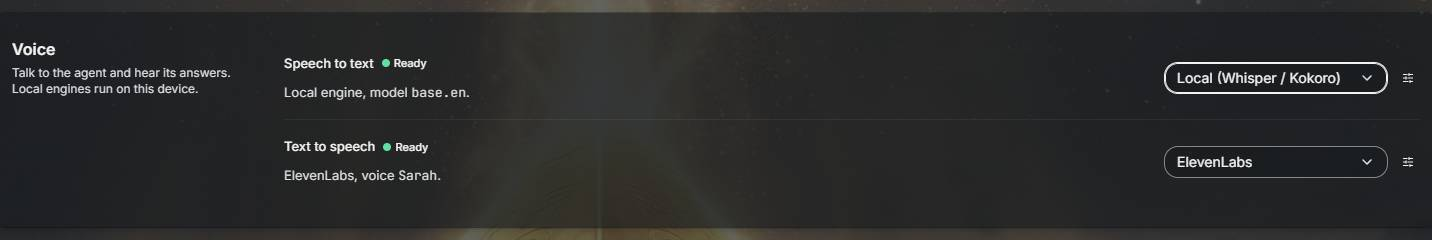
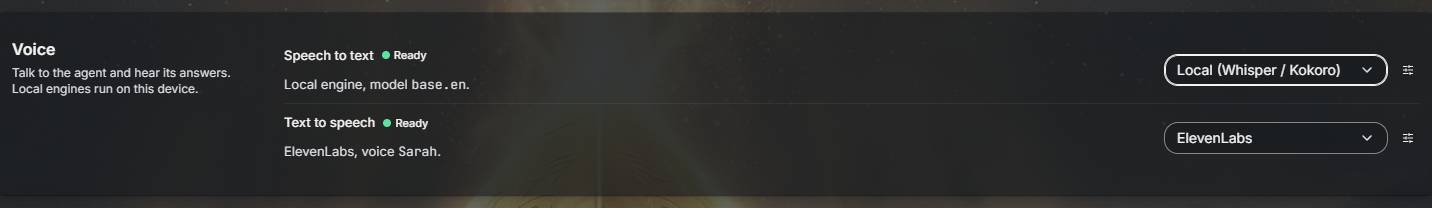
fix(chat,webview-e2e-harness): tidy Search & Voice spacing and actions
Coordinator review of PR 1416:

- ElevenLabs: two outline actions directly below the list and a
  Clear key action at the end. Clear key opens the TTS drawer tab
  with the existing clear confirmation (one shot per request).
- Web search cards: the status line follows the header.
- Divider and row gap between the provider note and Max results.
- Voice rows use the compact setting-row density, so the section
  padding matches the other sections.

CI: the Providers Main Agent popover smoke test checked rows that
the popover had scrolled out of view, because the shorter Main agent
list moves the trigger. Scroll each row into view before the
stacking check. The stacking contract does not change.

Refresh the after shots.

diff --git a/libs/frontend/chat/src/lib/settings/ptah-ai/voice-config.component.ts b/libs/frontend/chat/src/lib/settings/ptah-ai/voice-config.component.ts
@@ -108,7 +108,7 @@ const SAVE_PROVIDER_FAILED: Record<VoiceDirection, string> = {
         } @else if (rows().length) {
           <div data-testid="voice-engines-matrix">
             @for (row of rows(); track row.direction) {
-              <ptah-setting-row #settingRow [label]="row.name"
+              <ptah-setting-row #settingRow [label]="row.name" density="compact"
                 [attr.data-testid]="'voice-engine-row-' + row.direction">
                 <div status class="voice-row-status">
                   <ptah-status [status]="row.status.label === 'Ready' ? 'completed' : 'warning'"
@@ -153,13 +153,14 @@ const SAVE_PROVIDER_FAILED: Record<VoiceDirection, string> = {
     </section>
     @if (config(); as cfg) {
       <ptah-voice-elevenlabs-summary [config]="cfg" [voices]="elevenLabsVoices()"
-        (details)="openDetails('tts')" />
+        (details)="openDetails('tts')" (clearKey)="requestClearKey()" />
     }
 
     <!-- Lazy: the drawer and the panels it hosts load the first time a Details button is used. -->
     @defer (when drawerDirection() !== null) {
       <ptah-voice-details-drawer [(direction)]="drawerDirection" [config]="config()"
-        (closed)="drawerDirection.set(null)" (changed)="reloadAll()" />
+        [confirmClearKey]="clearKeyRequested()"
+        (closed)="drawerDirection.set(null); clearKeyRequested.set(false)" (changed)="reloadAll()" />
     }
   `,
   styles: `
@@ -192,6 +193,7 @@ export class VoiceConfigComponent implements OnInit {
   readonly isLoading = signal(true);
   /** Direction whose drawer tab is open; `null` closes drawer D-VOICE. */
   readonly drawerDirection = signal<VoiceDirection | null>(null);
+  readonly clearKeyRequested = signal(false);
 
   /** The provider selects, one per row in row order (stt, tts). */
   private readonly providerSelects = viewChildren(PtahRichSelectComponent);
@@ -318,7 +320,14 @@ export class VoiceConfigComponent implements OnInit {
     return name ? { modelLabel: name, modelTitle: null } : { modelLabel: 'Custom voice', modelTitle: voiceId };
   }
 
+  /** Page "Clear key": open the TTS drawer tab with the ElevenLabs clear confirmation. */
+  requestClearKey(): void {
+    this.openDetails('tts');
+    this.clearKeyRequested.set(true);
+  }
+
   openDetails(direction: VoiceDirection): void {
+    this.clearKeyRequested.set(false);
     this.drawerDirection.set(direction);
   }
 

diff --git a/libs/frontend/chat/src/lib/settings/ptah-ai/voice-details-drawer.component.spec.ts b/libs/frontend/chat/src/lib/settings/ptah-ai/voice-details-drawer.component.spec.ts
@@ -34,6 +34,7 @@ class ElevenLabsStub {
   readonly direction = input.required<'stt' | 'tts'>();
   readonly config = input.required<unknown>();
   readonly keyOnly = input(false);
+  readonly startClearConfirm = input(false);
   readonly changed = output<void>();
 }
 
@@ -41,11 +42,12 @@ class ElevenLabsStub {
   standalone: true,
   imports: [VoiceDetailsDrawerComponent],
   template: `<ptah-voice-details-drawer [(direction)]="direction" [config]="config()"
-    (closed)="closedCount = closedCount + 1; direction.set(null)" (changed)="changedCount = changedCount + 1" />`,
+    [confirmClearKey]="clearKey()" (closed)="closedCount = closedCount + 1; direction.set(null)" (changed)="changedCount = changedCount + 1" />`,
 })
 class HostComponent {
   readonly direction = signal<VoiceDirection | null>('stt');
   readonly config = signal<VoiceProviderConfigDto | null>(null);
+  readonly clearKey = signal(false);
   closedCount = 0;
   changedCount = 0;
 }
@@ -127,6 +129,22 @@ describe('VoiceDetailsDrawerComponent', () => {
       expect(panel?.classList.contains('px-2')).toBe(true);
       expect(panel?.classList.contains('pt-4')).toBe(true);
     }
+  });
+
+  it('passes a page clear request only to the TTS ElevenLabs panel', () => {
+    host.config.set(config({ ttsProvider: 'elevenlabs' }));
+    host.clearKey.set(true);
+    host.direction.set('tts');
+    fixture.detectChanges();
+    expect(fixture.debugElement.query(By.directive(ElevenLabsStub)).componentInstance.startClearConfirm()).toBe(true);
+    // With Local as TTS engine the request reaches the key-only ElevenLabs setup panel.
+    host.config.set(config({ elevenlabs: { ...config().elevenlabs, apiKeyConfigured: false } }));
+    fixture.detectChanges();
+    expect(fixture.debugElement.query(By.directive(ElevenLabsStub)).componentInstance.startClearConfirm()).toBe(true);
+    host.config.set(config({ elevenlabs: { ...config().elevenlabs, apiKeyConfigured: false } }));
+    tab('Speech-to-text')?.click();
+    fixture.detectChanges();
+    expect(fixture.debugElement.query(By.directive(ElevenLabsStub)).componentInstance.startClearConfirm()).toBe(false);
   });
 
   it('renders the ElevenLabs panel for the direction that uses it', () => {

diff --git a/libs/frontend/chat/src/lib/settings/ptah-ai/voice-elevenlabs-summary.component.ts b/libs/frontend/chat/src/lib/settings/ptah-ai/voice-elevenlabs-summary.component.ts
@@ -21,17 +21,24 @@ import { SearchVoiceSummaryStore } from './search-voice-summary.store';
           <div ptahDescriptionItem term="API key" [value]="hasKey() ? 'Saved' : 'Not set'"></div>
           <div ptahDescriptionItem term="Voice" [value]="voiceLabel()" [mono]="unknownVoice()"></div>
         </ptah-description-list>
-        <div footer class="flex flex-wrap gap-ptah-controls">
-          <button type="button" ptahButton variant="secondary" data-testid="voice-elevenlabs-manage"
+        <div class="flex flex-wrap items-center gap-ptah-controls">
+          <button type="button" ptahButton variant="outline" data-testid="voice-elevenlabs-manage"
             (click)="details.emit()">{{ hasKey() ? 'Change key' : 'Add key' }}</button>
-          <button type="button" ptahButton variant="ghost" data-testid="voice-elevenlabs-details"
+          <button type="button" ptahButton variant="outline" data-testid="voice-elevenlabs-details"
             (click)="details.emit()">Voice details</button>
+          @if (hasKey()) {
+            <button type="button" ptahButton variant="ghost" tone="danger" class="summary-clear"
+              aria-label="Clear the ElevenLabs API key" data-testid="voice-elevenlabs-clear"
+              (click)="clearKey.emit()">Clear key</button>
+          }
         </div>
       </ptah-form-section>
     </section>
   `,
   styles: `
     :host { display: block; }
+    /* The destructive action sits at the end of the action row, as in the prototype. */
+    .summary-clear { margin-inline-start: auto; }
     :host-context([data-glass='on']) [data-glass-surface='content'] {
       padding: 0 1.25rem;
     }
@@ -41,6 +48,7 @@ export class VoiceElevenlabsSummaryComponent {
   readonly config = input.required<VoiceProviderConfigDto>();
   readonly voices = input<readonly VoiceInfoDto[] | null>(null);
   readonly details = output<void>();
+  readonly clearKey = output<void>();
   private readonly summary = inject(SearchVoiceSummaryStore, { optional: true });
   readonly hasKey = computed(() => this.config().elevenlabs.apiKeyConfigured);
   private readonly voiceName = computed(() => this.voices()?.find(voice => voice.id === this.config().elevenlabs.voiceId)?.label);

diff --git a/libs/frontend/chat/src/lib/settings/ptah-ai/web-search-provider-rows.component.ts b/libs/frontend/chat/src/lib/settings/ptah-ai/web-search-provider-rows.component.ts
@@ -56,7 +56,7 @@ export interface ProviderTestResult {
             </ptah-native-popover>
           </div>
           <div class="provider-body">
-            <span [attr.data-testid]="'settings-web-search-status-' + opt.value">
+            <span class="provider-test" [attr.data-testid]="'settings-web-search-status-' + opt.value">
               @if (testResults().find(r => r.provider === opt.value); as r) {
                 <ptah-status [status]="r.success ? 'online' : 'failed'" [label]="r.success ? 'Works' : TEST_FAILED" />
               } @else { <span class="sr-only">Not tested</span> }
@@ -123,7 +123,9 @@ export interface ProviderTestResult {
     .provider[data-readiness='missing'] { border-inline-start-color: var(--ptah-card-tone-warning); }
     .provider-header { display: flex; align-items: center; gap: var(--ptah-gap-controls); padding: var(--ptah-card-padding-sm); }
     .provider-mark { display: grid; place-items: center; flex-shrink: 0; width: 2.25rem; height: 2.25rem; border: 1px solid var(--ptah-border-color); border-radius: var(--ptah-radius-control); background: var(--ptah-card-bg); font-weight: 600; }
-    .provider-body { display: flex; flex-direction: column; gap: var(--ptah-gap-controls); padding: var(--ptah-card-padding-sm); flex: 1; }
+    /* The status line follows the header: no top padding, and the hidden test status takes no gap. */
+    .provider-body { display: flex; flex-direction: column; gap: var(--ptah-gap-controls); padding: 0 var(--ptah-card-padding-sm) var(--ptah-card-padding-sm); flex: 1; }
+    .provider-test { display: contents; }
     .provider-footer { display: flex; align-items: center; flex-wrap: nowrap; gap: var(--ptah-gap-inline); padding: var(--ptah-card-padding-sm); border-top: 1px solid var(--ptah-border-color); margin-top: auto; }
     .provider-footer [hidden] { display: none; }
     .clear-key { margin-inline-start: auto; }

diff --git a/libs/frontend/chat/src/lib/settings/ptah-ai/voice-details-drawer.component.ts b/libs/frontend/chat/src/lib/settings/ptah-ai/voice-details-drawer.component.ts
@@ -78,7 +78,8 @@ const TABS: readonly NativeTab[] = [
               <div class="ptah-motion-panel px-2 pt-4" animate.enter="ptah-motion-enter" animate.leave="ptah-motion-leave">
               @switch (ttsProvider()) {
                 @case ('elevenlabs') {
-                  <ptah-elevenlabs-panel direction="tts" [config]="cfg.elevenlabs" (changed)="changed.emit()" />
+                  <ptah-elevenlabs-panel direction="tts" [config]="cfg.elevenlabs" [startClearConfirm]="confirmClearKey()"
+                    (changed)="changed.emit()" />
                 }
                 @default {
                   <ptah-local-tts-panel [config]="cfg.local" (changed)="changed.emit()" />
@@ -100,7 +101,8 @@ const TABS: readonly NativeTab[] = [
           <p class="mb-3 text-xs text-base-content-muted">
             Save a key to use ElevenLabs for voice.
           </p>
-          <ptah-elevenlabs-panel [direction]="dir" [config]="cfg.elevenlabs" [keyOnly]="true" (changed)="changed.emit()" />
+          <ptah-elevenlabs-panel [direction]="dir" [config]="cfg.elevenlabs" [keyOnly]="true"
+            [startClearConfirm]="confirmClearKey() && dir === 'tts'" (changed)="changed.emit()" />
         </section>
       </ng-template>
       @if (direction() !== null) {
@@ -119,6 +121,8 @@ export class VoiceDetailsDrawerComponent {
   /** The open tab; `null` closes the drawer. Two-way so a tab switch inside the drawer is kept by the parent. */
   readonly direction = model<VoiceDirection | null>(null);
   readonly config = input<VoiceProviderConfigDto | null>(null);
+  /** Set by the page "Clear key" action: the TTS tab opens with the ElevenLabs clear confirmation. */
+  readonly confirmClearKey = input(false);
   readonly closed = output<void>();
   /** A panel saved something; the parent re-reads the provider config. */
   readonly changed = output<void>();

diff --git a/libs/frontend/chat/src/lib/settings/ptah-ai/voice-elevenlabs-summary.component.spec.ts b/libs/frontend/chat/src/lib/settings/ptah-ai/voice-elevenlabs-summary.component.spec.ts
@@ -40,6 +40,22 @@ describe('VoiceElevenlabsSummaryComponent', () => {
     expect(TestBed.inject(SearchVoiceSummaryStore).segments()[0].meta).toBe('Voice Sarah');
   });
 
+  it('shows two outline actions in the body and a Clear key action at the end', () => {
+    const fixture = render();
+    const clear = jest.fn();
+    fixture.componentInstance.clearKey.subscribe(clear);
+    const element: HTMLElement = fixture.nativeElement;
+    for (const id of ['voice-elevenlabs-manage', 'voice-elevenlabs-details']) {
+      const button = element.querySelector<HTMLButtonElement>(`[data-testid="${id}"]`);
+      expect(button?.classList).toContain('btn-outline');
+      expect(button?.closest('[data-testid="form-section-body"]')).not.toBeNull();
+    }
+    const clearButton = element.querySelector<HTMLButtonElement>('[data-testid="voice-elevenlabs-clear"]');
+    expect(clearButton?.getAttribute('aria-label')).toBe('Clear the ElevenLabs API key');
+    clearButton?.click();
+    expect(clear).toHaveBeenCalledTimes(1);
+  });
+
   it('offers key setup and forwards both actions to the TTS drawer', () => {
     const fixture = render(false);
     const details = jest.fn();
@@ -49,6 +65,7 @@ describe('VoiceElevenlabsSummaryComponent', () => {
     expect(element.textContent).toContain('Add key');
     element.querySelectorAll('button').forEach(button => button.click());
     expect(details).toHaveBeenCalledTimes(2);
+    expect(element.querySelector('[data-testid="voice-elevenlabs-clear"]')).toBeNull();
     expect(TestBed.inject(SearchVoiceSummaryStore).segments()[0]).toMatchObject({ value: 'No key', meta: 'Add a key for cloud voices', tone: 'idle' });
   });
 });

diff --git a/libs/frontend/chat/src/lib/settings/ptah-ai/web-search-config.component.ts b/libs/frontend/chat/src/lib/settings/ptah-ai/web-search-config.component.ts
@@ -171,11 +171,12 @@ function providerLabel(provider: ProviderId): string {
                (cancelClear)="cancelClear($event)"
              />
 
-            <p class="text-xs text-base-content-muted mt-2">
+            <p class="selection-note text-xs text-base-content-muted">
               At least one provider must stay selected.
             </p>
 
             <ptah-setting-row
+              class="max-results-row"
               label="Max results"
               hint="Results each provider returns for one search."
               controlId="web-search-max-results"
@@ -214,6 +215,9 @@ function providerLabel(provider: ProviderId): string {
     .web-search-header h2 { font-size: var(--ptah-text-section-title-size); line-height: var(--ptah-text-section-title-leading); font-weight: var(--ptah-text-section-title-weight); }
     .web-search-header p { grid-column: 1 / -1; }
     .max-results { width: 16rem; max-width: 100%; }
+    .selection-note { margin-top: var(--ptah-gap-label); }
+    /* Divider and row gap between the provider grid note and the next setting. */
+    .max-results-row { margin-top: var(--ptah-gap-field); border-top: var(--ptah-border-width) solid var(--ptah-border-color); }
     @media (max-width: 639px) { .max-results { width: 100%; } }
 
     :host-context([data-glass='on']) [data-glass-surface='content'] {

diff --git a/libs/frontend/chat/src/lib/settings/ptah-ai/elevenlabs-panel.component.ts b/libs/frontend/chat/src/lib/settings/ptah-ai/elevenlabs-panel.component.ts
@@ -403,6 +403,8 @@ export class ElevenLabsPanelComponent {
   readonly direction = input.required<'stt' | 'tts'>();
   readonly config = input.required<VoiceProviderConfigElevenLabsDto>();
   readonly keyOnly = input(false);
+  /** Opens the clear confirmation on mount (page "Clear key" action); the confirm still asks. */
+  readonly startClearConfirm = input(false);
   readonly changed = output<void>();
   readonly AlertCircleIcon = AlertCircle;
   readonly CheckCircleIcon = CheckCircle;
@@ -471,6 +473,16 @@ export class ElevenLabsPanelComponent {
     // Loads voices on mount and again once a first key is saved and the container re-reads.
     effect(() => {
       if (this.showVoicePicker()) untracked(() => void this.loadVoices());
+    });
+    // One shot per request: a later config reload must not open the confirmation again.
+    let clearRequestHandled = false;
+    effect(() => {
+      if (!this.startClearConfirm()) {
+        clearRequestHandled = false;
+      } else if (!clearRequestHandled && this.config().apiKeyConfigured) {
+        clearRequestHandled = true;
+        untracked(() => this.confirmingClear.set(true));
+      }
     });
   }
   onKeyInput(event: Event): void {

diff --git a/libs/frontend/chat/src/lib/settings/ptah-ai/elevenlabs-panel.component.spec.ts b/libs/frontend/chat/src/lib/settings/ptah-ai/elevenlabs-panel.component.spec.ts
@@ -362,6 +362,22 @@ describe('ElevenLabsPanelComponent', () => {
     });
   });
   describe('clear key (V21, S-confirm)', () => {
+    it('opens the confirm once for a page clear request and never writes without confirm', async () => {
+      routeRpc({ 'voice:listVoices': VOICES });
+      mount('tts', elConfig({ apiKeyConfigured: true }));
+      await settle();
+      fixture.componentRef.setInput('startClearConfirm', true);
+      fixture.detectChanges();
+      expect(byTestId('elevenlabs-clear-group')).not.toBeNull();
+      expect(calls('voice:setApiKey')).toEqual([]);
+      byTestId<HTMLButtonElement>('elevenlabs-clear-cancel').click();
+      fixture.detectChanges();
+      // A config reload with the request still set must not open it again.
+      fixture.componentRef.setInput('config', elConfig({ apiKeyConfigured: true }));
+      fixture.detectChanges();
+      expect(element.querySelector('[data-testid="elevenlabs-clear-group"]')).toBeNull();
+    });
+
     it('asks for an inline confirm first, focuses Cancel, and Cancel returns focus to Clear', async () => {
       routeRpc({ 'voice:listVoices': VOICES });
       mount('tts', elConfig({ apiKeyConfigured: true }));

diff --git a/libs/frontend/webview-e2e-harness/src/lib/scenarios/settings/settings-visual.e2e.spec.ts b/libs/frontend/webview-e2e-harness/src/lib/scenarios/settings/settings-visual.e2e.spec.ts
@@ -326,6 +326,7 @@ async function assertOrderStripWhole(
 /**
  * Batch 27b deviation 6 / Batch 28: an open popover is painted above everything on the page, the Main agent
  * section's badges included. The top-most element at the centre of each popover row must belong to the popover.
+ * Each row is first scrolled into view inside the popover, because the panel scrolls when the window is short.
  */
 async function assertPopoverOnTop(
   page: Page,
@@ -336,6 +337,8 @@ async function assertPopoverOnTop(
     (panel, rowSelector) =>
       Array.from(panel.querySelectorAll(rowSelector))
         .map((row) => {
+          // The popover scrolls whole when the room beside its trigger is short: test stacking, not scroll.
+          row.scrollIntoView({ block: 'nearest', inline: 'nearest' });
           const box = row.getBoundingClientRect();
           const top = document.elementFromPoint(
             box.left + box.width / 2,

diff --git a/libs/frontend/chat/src/lib/settings/ptah-ai/voice-config.component.spec.ts b/libs/frontend/chat/src/lib/settings/ptah-ai/voice-config.component.spec.ts
@@ -300,6 +300,16 @@ describe('VoiceConfigComponent', () => {
     expect(element.textContent).not.toContain('host detail');
   });
 
+  it('opens the TTS tab with a clear request for the page Clear key action, and other Details reset it', async () => {
+    await render();
+    component.requestClearKey();
+    expect(component.drawerDirection()).toBe('tts');
+    expect(component.clearKeyRequested()).toBe(true);
+    component.openDetails('stt');
+    expect(component.drawerDirection()).toBe('stt');
+    expect(component.clearKeyRequested()).toBe(false);
+  });
+
   it('loads the drawer only when Details is used, on that direction\'s tab', async () => {
     await render();
     const [block] = await fixture.getDeferBlocks();
